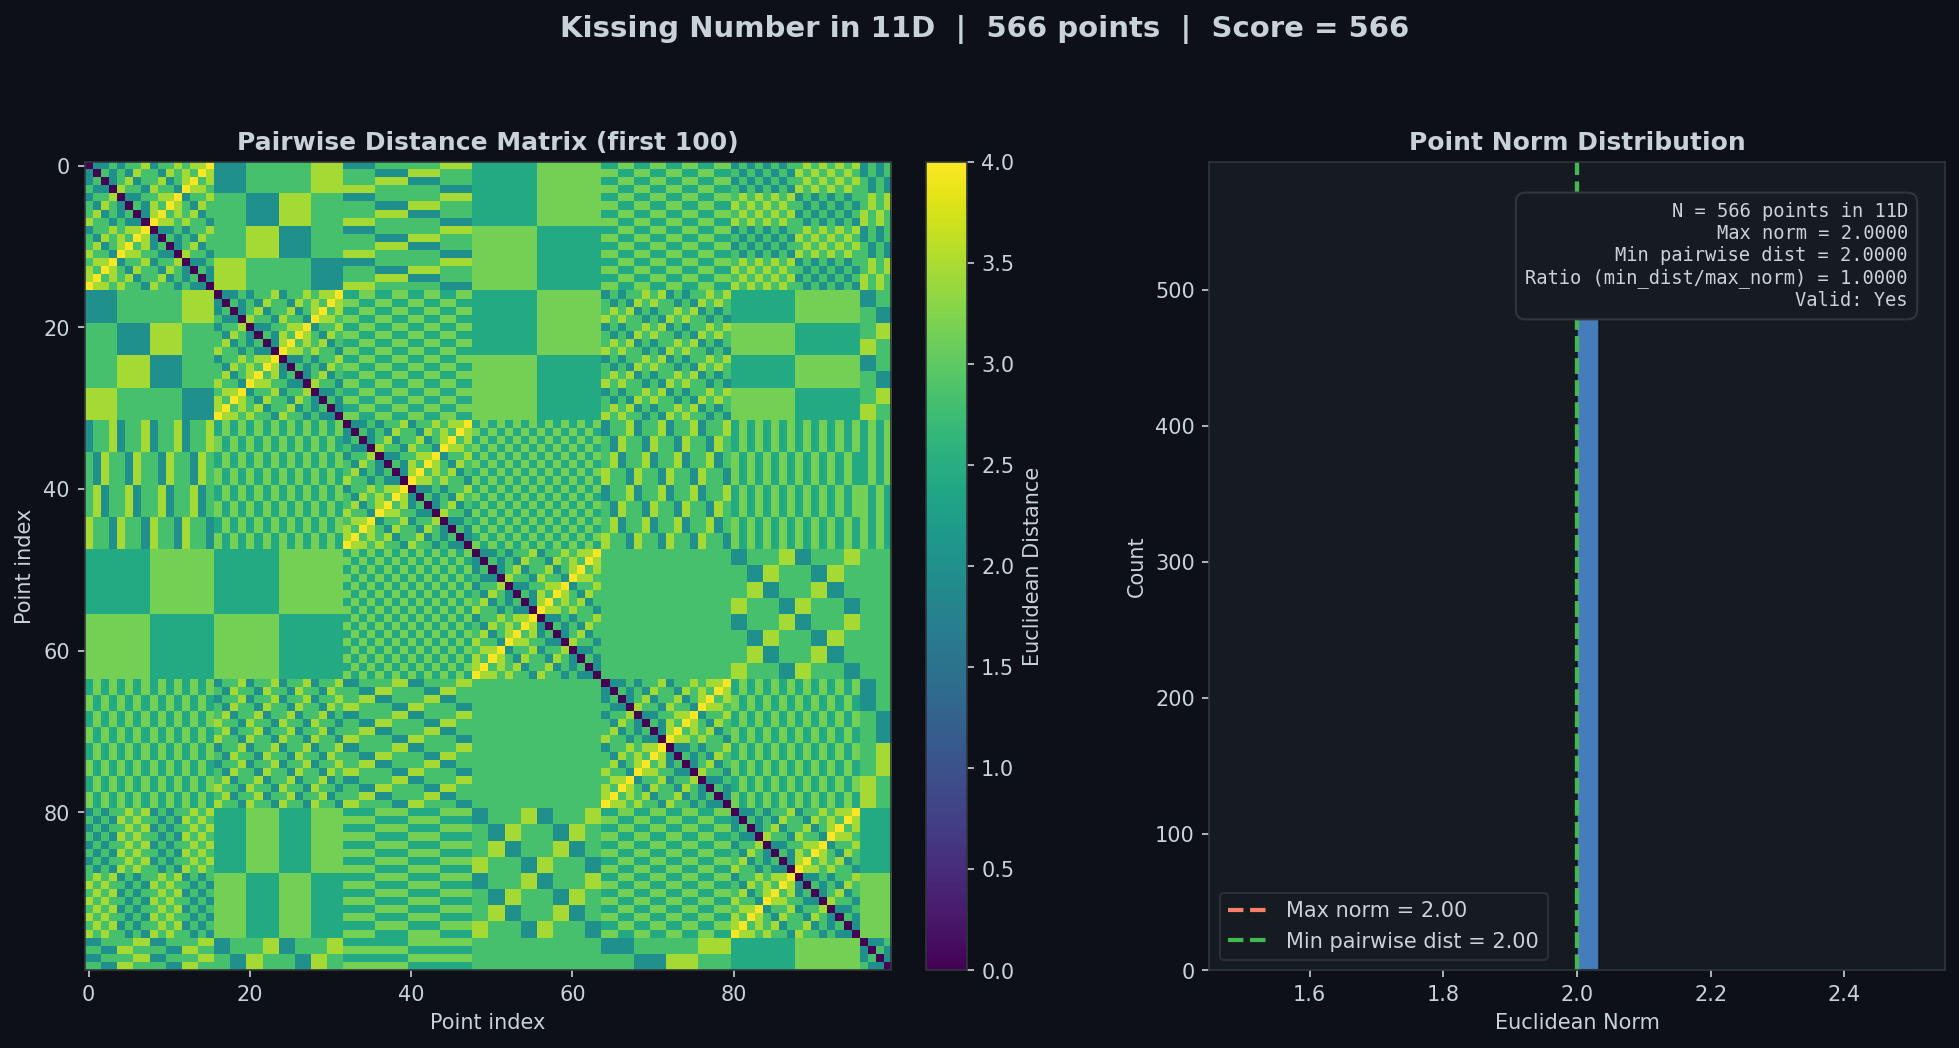
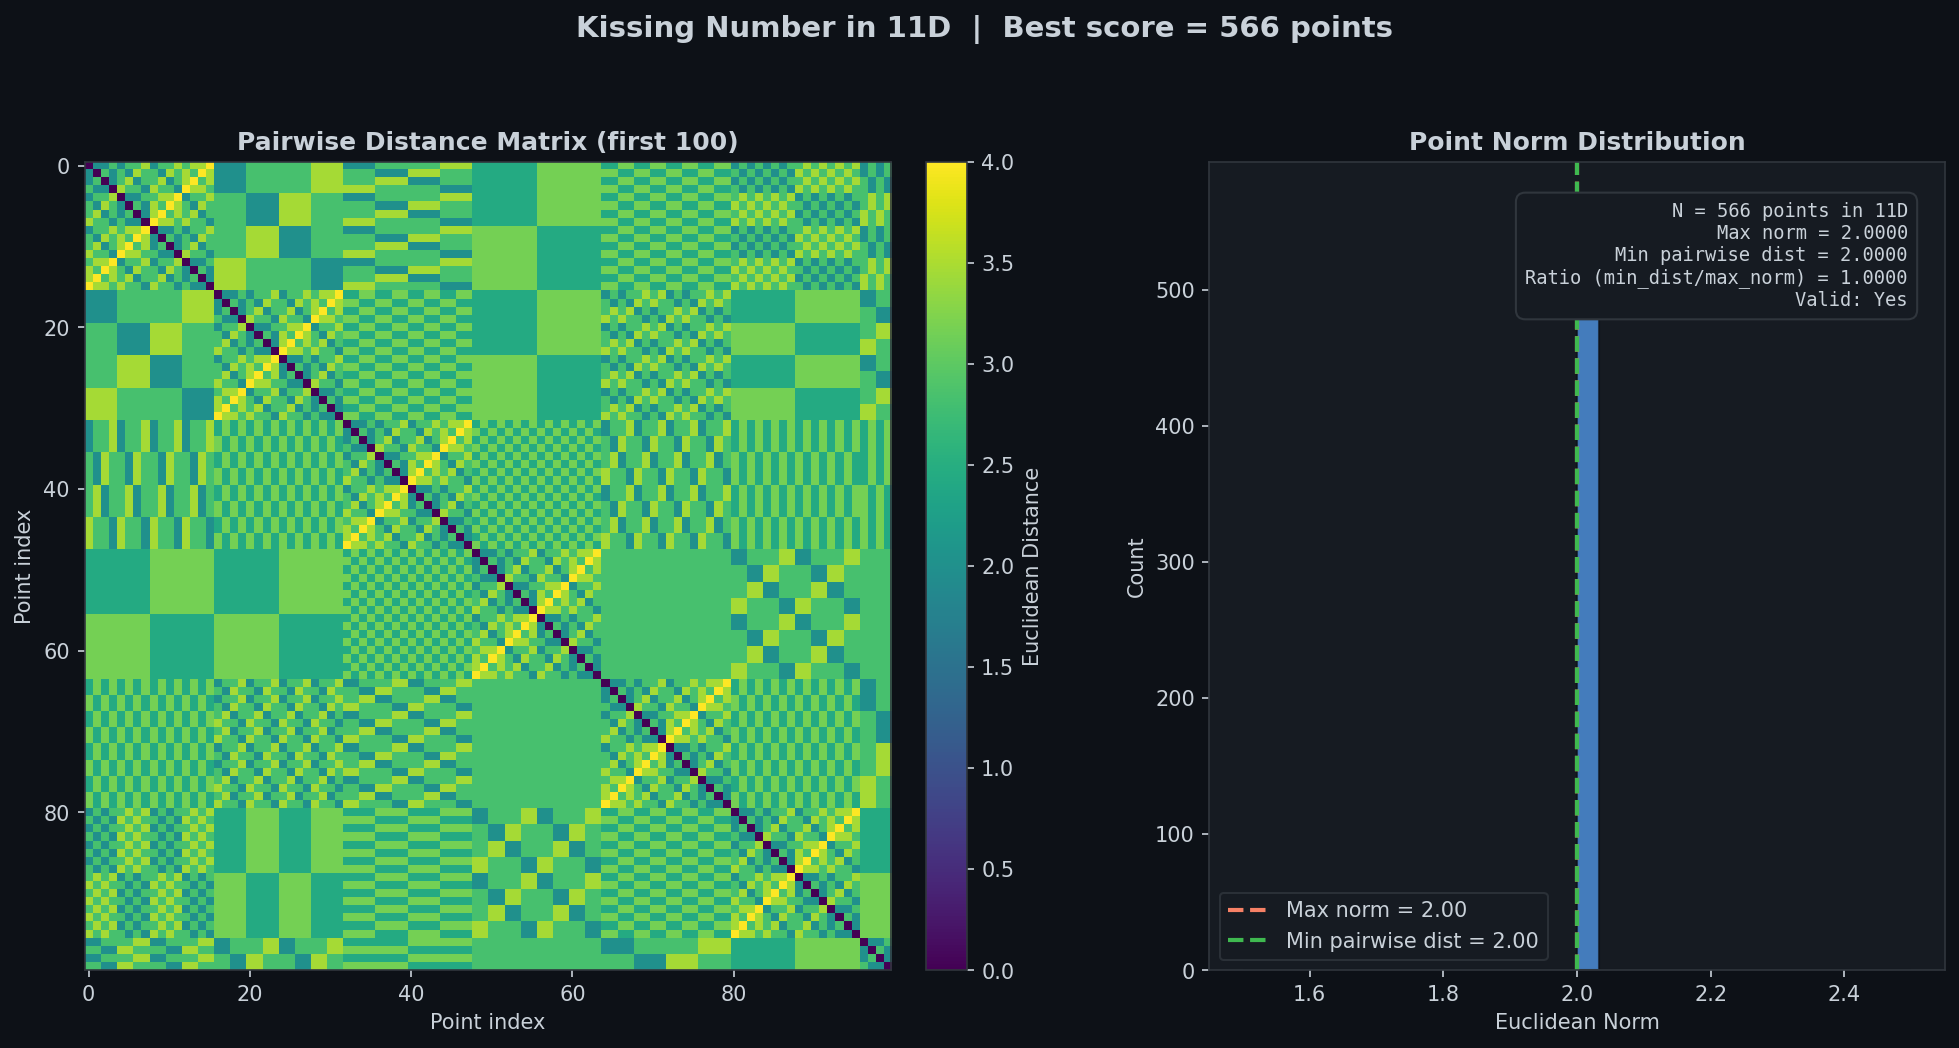
Use recorded best scores in solution plot titles instead of re-computed values
Solutions with stochastic optimization (e.g. basin hopping) produce
slightly different results each run. Now titles show the actual
benchmark-recorded best score from results.json.

Changed region(s): [[0.2802, 0.0, 0.7162, 0.0611]]

diff --git a/benchmarks/codeevolve/plot_solutions.py b/benchmarks/codeevolve/plot_solutions.py
@@ -10,6 +10,7 @@ Usage:
 from __future__ import annotations
 
 import importlib.util
+import json
 from pathlib import Path
 
 import matplotlib.pyplot as plt
@@ -18,8 +19,16 @@ import numpy as np
 from scipy.spatial.distance import pdist, squareform
 
 BENCH_DIR = Path(__file__).resolve().parent
-SOL_DIR = BENCH_DIR / "runs" / "diverse_model_set_full_run" / "solutions"
+RUN_DIR = BENCH_DIR / "runs" / "diverse_model_set_full_run"
+SOL_DIR = RUN_DIR / "solutions"
 OUT_DIR = BENCH_DIR / "plots"
+
+
+def load_recorded_scores() -> dict[str, float]:
+    """Load best scores from results.json (the actual benchmark scores)."""
+    with open(RUN_DIR / "results.json") as f:
+        results = json.load(f)
+    return {r["task"]: r["best_score"] for r in results}
 
 DARK_BG = "#0D1117"
 PANEL_BG = "#161B22"
@@ -48,9 +57,10 @@ def style_ax(ax):
         spine.set_color(BORDER_COLOR)
 
 
-def plot_circle_packing():
+def plot_circle_packing(recorded_scores: dict[str, float]):
     mod = load_module(SOL_DIR / "circle_packing_1.py")
     result = mod.circle_packing26()  # (26, 3): x, y, r
+    best_score = recorded_scores.get("circle_packing", np.sum(result[:, 2]))
 
     fig, ax = plt.subplots(figsize=(8, 8))
     fig.patch.set_facecolor(DARK_BG)
@@ -83,7 +93,7 @@ def plot_circle_packing():
     ax.set_xlim(-0.05, 1.05)
     ax.set_ylim(-0.05, 1.05)
     ax.set_aspect("equal")
-    ax.set_title(f"Circle Packing (26 circles)  |  Sum of radii = {total_radii:.4f}",
+    ax.set_title(f"Circle Packing (26 circles)  |  Best sum of radii = {best_score:.4f}",
                  fontsize=13, fontweight="bold", pad=12)
     ax.set_xlabel("x")
     ax.set_ylabel("y")
@@ -95,7 +105,7 @@ def plot_circle_packing():
     plt.close(fig)
 
 
-def plot_heilbronn_triangle():
+def plot_heilbronn_triangle(recorded_scores: dict[str, float]):
     mod = load_module(SOL_DIR / "heilbronn_triangle_1.py")
     points = mod.heilbronn_triangle11()  # (11, 2)
 
@@ -146,7 +156,8 @@ def plot_heilbronn_triangle():
     ax.set_xlim(-0.05, 1.05)
     ax.set_ylim(-0.05, np.sqrt(3) / 2 + 0.05)
     ax.set_aspect("equal")
-    ax.set_title(f"Heilbronn Triangle (11 points)  |  Min normalized area = {min_area:.6f}",
+    best_score = recorded_scores.get("heilbronn_triangle", min_area)
+    ax.set_title(f"Heilbronn Triangle (11 points)  |  Best min area = {best_score:.6f}",
                  fontsize=13, fontweight="bold", pad=12)
     ax.set_xlabel("x")
     ax.set_ylabel("y")
@@ -165,9 +176,10 @@ def plot_heilbronn_triangle():
     plt.close(fig)
 
 
-def plot_kissing_number():
+def plot_kissing_number(recorded_scores: dict[str, float]):
     mod = load_module(SOL_DIR / "kissing_number_1.py")
     points = mod.kissing_number11()  # (N, 11)
+    best_n = int(recorded_scores.get("kissing_number", len(points)))
 
     n = len(points)
     norms = np.linalg.norm(points, axis=1)
@@ -224,7 +236,7 @@ def plot_kissing_number():
              color=TEXT_COLOR, fontfamily="monospace",
              bbox=dict(boxstyle="round,pad=0.5", facecolor=PANEL_BG, edgecolor=BORDER_COLOR))
 
-    fig.suptitle(f"Kissing Number in 11D  |  {n} points  |  Score = {n}",
+    fig.suptitle(f"Kissing Number in 11D  |  Best score = {best_n} points",
                  fontsize=14, fontweight="bold", color=TEXT_COLOR, y=1.02)
 
     plt.tight_layout()
@@ -233,7 +245,7 @@ def plot_kissing_number():
     plt.close(fig)
 
 
-def plot_first_autocorr():
+def plot_first_autocorr(recorded_scores: dict[str, float]):
     mod = load_module(SOL_DIR / "first_autocorr_1.py")
     a = mod.first_autocorrelation()  # 1D array
 
@@ -297,7 +309,8 @@ def plot_first_autocorr():
             verticalalignment="top", linespacing=1.8,
             bbox=dict(boxstyle="round,pad=0.8", facecolor=PANEL_BG, edgecolor=BORDER_COLOR))
 
-    fig.suptitle(f"First Autocorrelation  |  1/C1 = {inv_c1:.6f}",
+    best_score = recorded_scores.get("first_autocorr", inv_c1)
+    fig.suptitle(f"First Autocorrelation  |  Best 1/C1 = {best_score:.6f}",
                  fontsize=14, fontweight="bold", color=TEXT_COLOR)
 
     plt.tight_layout()
@@ -307,8 +320,9 @@ def plot_first_autocorr():
 
 
 if __name__ == "__main__":
-    plot_circle_packing()
-    plot_heilbronn_triangle()
-    plot_kissing_number()
-    plot_first_autocorr()
+    scores = load_recorded_scores()
+    plot_circle_packing(scores)
+    plot_heilbronn_triangle(scores)
+    plot_kissing_number(scores)
+    plot_first_autocorr(scores)
     print("Done.")
